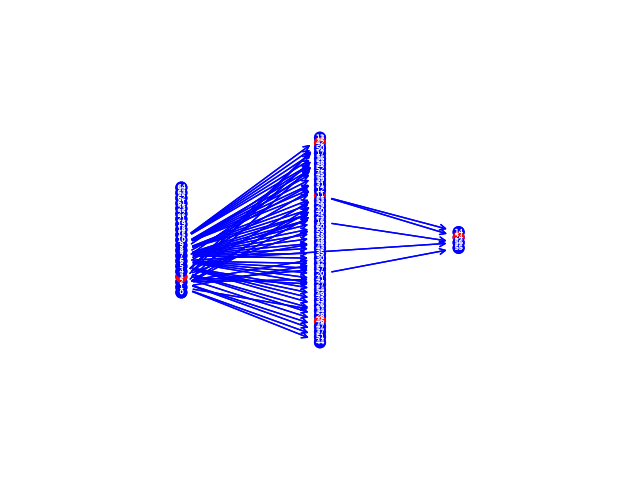
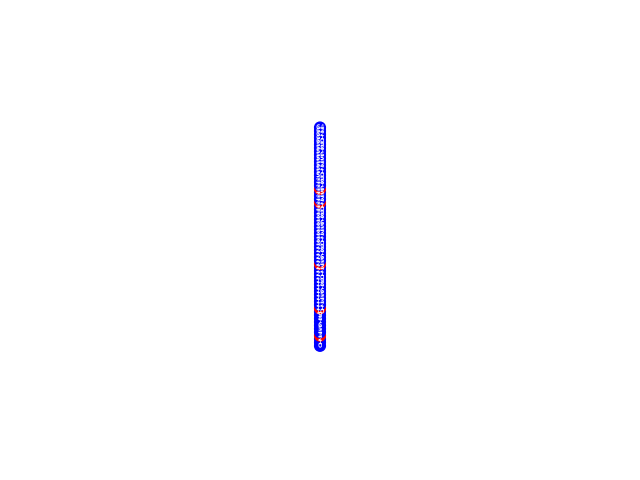
Mudanca na geracao do grafo (bug)

Changed region(s): [[0.25, 0.25, 0.75, 0.7188]]

diff --git a/src/ref/grapho.py b/src/ref/grapho.py
@@ -123,7 +123,7 @@ def gerar_arestas(funcionarios):
     return edges
 
 def gerar_grafo(arestas,nos, marcados, nome):
-    G = nx.MultiDiGraph()
+    G = nx.Graph()
     # nos = extrair_nos(arestas)
     node_colors = ["blue"] * len(nos)
     # edge_colors = arestas.copy() # {} #["blue"] * len(arestas)
@@ -134,14 +134,18 @@ def gerar_grafo(arestas,nos, marcados, nome):
     # pprint(len(edge_colors))
     # pprint(len(node_colors))
     for u in nos:
-        G.add_node(u)
+        G.add_node(u, bipartite=(1 if len([(1 if t==u else 0) for t in arestas]) > 0 else 0))
 
     for (u, v) in arestas:
         if (u, v) in marcados and 0 <= u < len(node_colors) and 0 <= v < len(node_colors):
             G.add_edge(u, v, color="red")
+            
+            
             # pprint((u, v))
             node_colors[nos[u]] = 'red'
             node_colors[nos[v]] = 'red'
+
+
         else: 
             G.add_edge(u, v, color="blue")
             # edge_colors[(u,v)] = 'red'
@@ -149,13 +153,15 @@ def gerar_grafo(arestas,nos, marcados, nome):
 
     edges = G.edges()
     # edge_colors = [G[u][v]['color'] for u,v in edges]
+
     edge_colors = ["blue"] * len(arestas)
     
     pprint(edge_colors)
     
     # arestas = [(u, v, w) for (u, v, w) in G.edges(data=True)]
-    layers = dict(enumerate(nx.topological_generations(G)))
-    pos = nx.multipartite_layout(G, subset_key=layers)
+    # layers = dict(enumerate(nx.topological_generations(G)))
+    # pos = nx.multipartite_layout(G, subset_key=layers)
+    pos = nx.bipartite_layout(G, nodes=[n for n, d in G.nodes(data=True) if d['bipartite'] == 1])
 
     # nodes
     nx.draw_networkx_nodes(G, pos, node_size=60, node_color=node_colors, margins=0.3)
@@ -174,6 +180,8 @@ def gerar_grafo(arestas,nos, marcados, nome):
     plt.axis("off")
     plt.tight_layout()
     plt.savefig(f"./img/network-func-{nome}.png")
+    plt.clf()
+
 
 def extrair_nos(arestas):
     nos=[]
